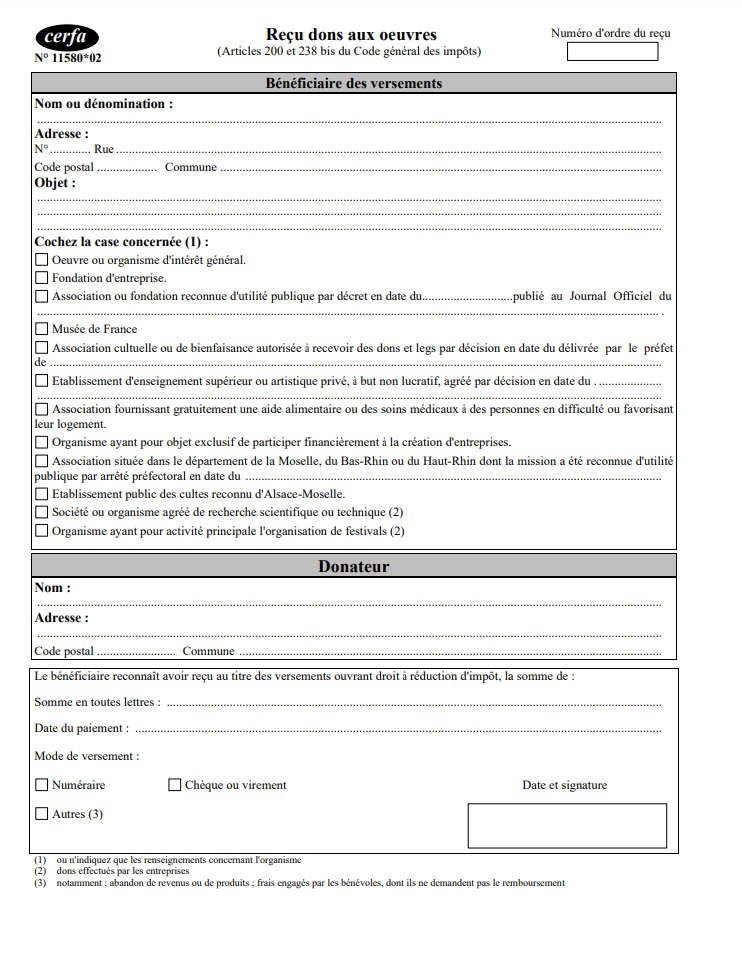
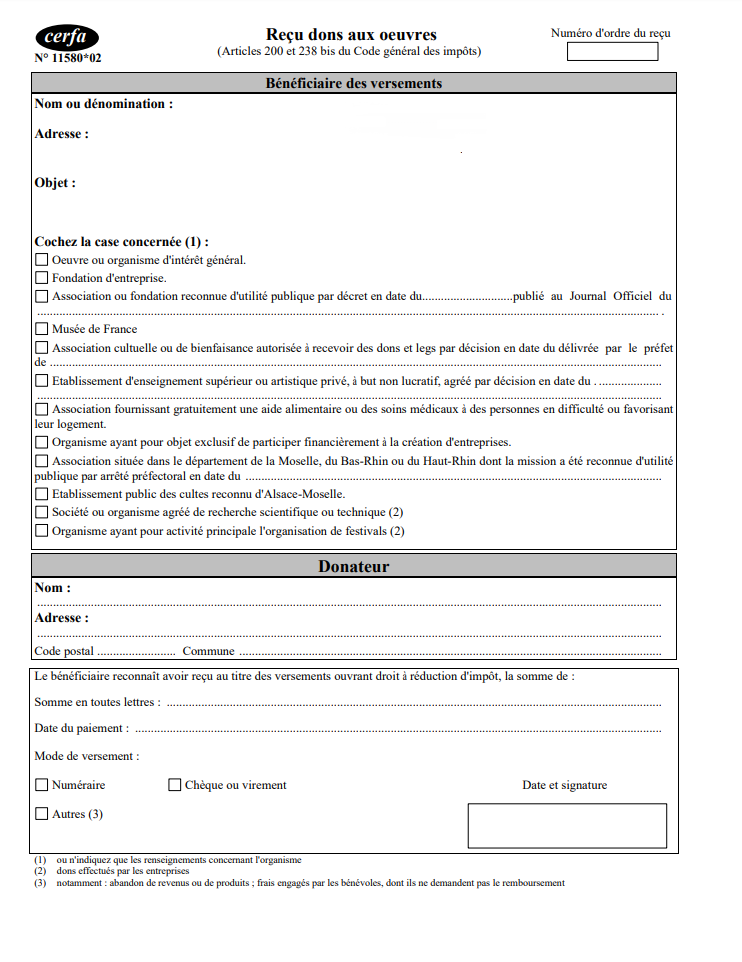
Cerfa avec données en dur

Changed region(s): [[0.031, 0.1247, 0.155, 0.1871], [0.217, 0.1559, 0.31, 0.1871]]

diff --git a/cerfa.php b/cerfa.php
@@ -4,7 +4,36 @@ include ('fpdf/fpdf.php');
 $fpdf = new FPDF();
 $fpdf->AddPage();
 $fpdf->Image('fpdf/image/cerfa.png', 0, 0);
+
+$fpdf->SetFont('Arial','', 16);
+$fpdf->Cell(175, 45, utf8_decode("Salles d’Armes de Villers lès Nancy"), 0, 1, 'C');
+$fpdf->Cell(175, -25, utf8_decode("1, rue Rodin - 54600 Villers-lès-Nancy"), 0, 1, 'C');
+$fpdf->Cell(175, 50, utf8_decode("Club d’Escrime"), 0, 1, 'C');
+
+$fpdf->SetFont('Arial','',12);
+$fpdf->SetX(20);
+$fpdf->Cell(0, 155, utf8_decode("Jean-Christophe Berbier"), 0, 1, 'L');
+$fpdf->SetX(25);
+$fpdf->Cell(0, -139, utf8_decode("12, rue de Marron, 54600 Villers-lès-Nancy"), 0, 1, 'L');
+
+$fpdf->SetFont('Arial','',10);
+$fpdf->SetX(28);
+$fpdf->Cell(0, 150, utf8_decode("54600"), 0, 1, 'L');
+$fpdf->SetX(65);
+$fpdf->Cell(0, -150, utf8_decode("Villers-lès-Nancy"), 0, 1, 'L');
+
+$fpdf->SetFont('Arial','B',10);
+$fpdf->SetX(153);
+$fpdf->Cell(0, 166, utf8_decode("500 euros"), 0, 1, 'L');
+
+$fpdf->SetFont('Arial','',10);
+$fpdf->SetX(45);
+$fpdf->Cell(0, -154, utf8_decode("Cinq cents euros"), 0, 1, 'L');
+$fpdf->SetX(37);
+$fpdf->Cell(0, 167, utf8_decode("03/03/2020"), 0, 1, 'L');
+
+
+
+
 $fpdf->Output();
-
-
 ?>
